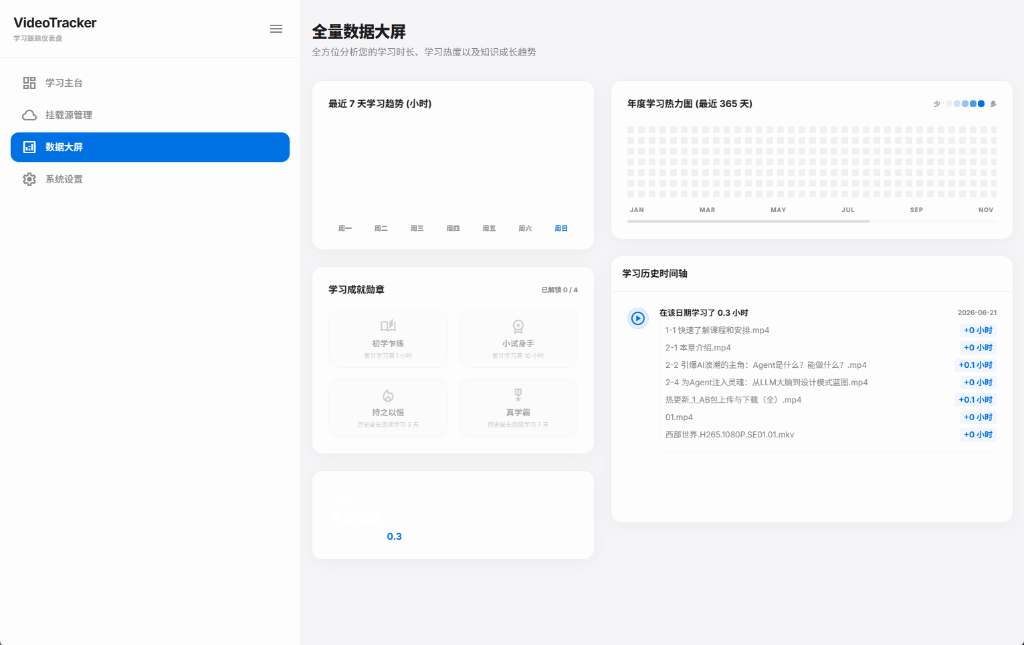
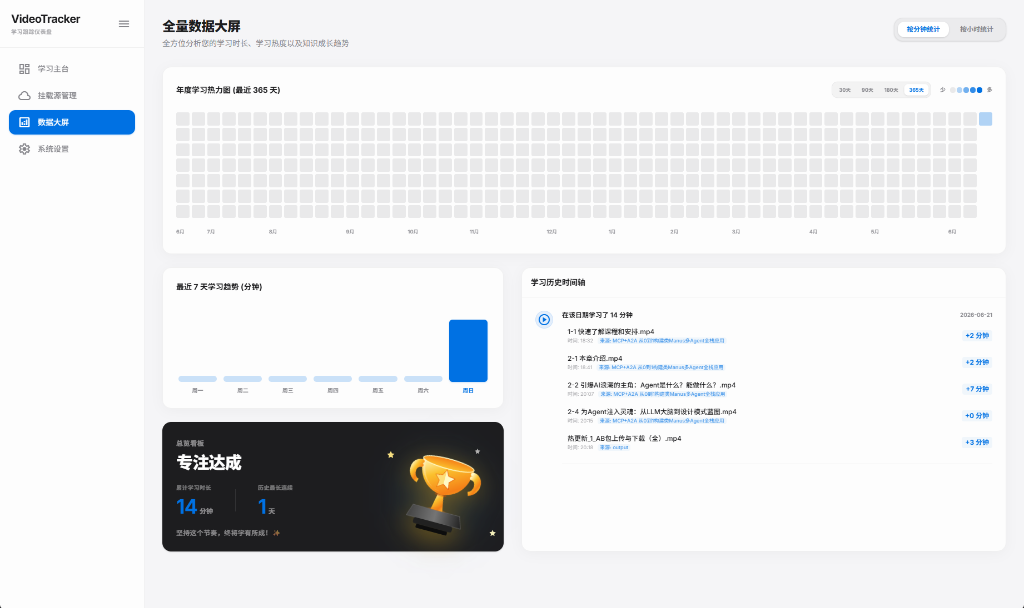
style: fix Analytics dashboard column alignment and update screenshot

diff --git a/src/renderer/components/Analytics.tsx b/src/renderer/components/Analytics.tsx
@@ -407,7 +407,7 @@ export default function Analytics({ refreshSignal, onRefresh }: AnalyticsProps) 
         </section>
 
         {/* 下方自适应双列排版 */}
-        <div className="grid grid-cols-1 lg:grid-cols-12 gap-8 items-start">
+        <div className="grid grid-cols-1 lg:grid-cols-12 gap-8 items-stretch">
           {/* 左侧列：柱状图 & 统计概览 */}
           <div className="col-span-12 lg:col-span-5 space-y-6">
             {/* 最近 7 天趋势图 */}
@@ -563,8 +563,8 @@ export default function Analytics({ refreshSignal, onRefresh }: AnalyticsProps) 
           </div>
 
           {/* 右侧列：历史时间轴 */}
-          <div className="col-span-12 lg:col-span-7">
-            <section className="apple-card flex flex-col rounded-2xl h-[470px] overflow-hidden bg-white/80 border border-black/5 shadow-sm transition-shadow hover:shadow-md">
+          <div className="col-span-12 lg:col-span-7 flex flex-col min-h-0">
+            <section className="apple-card flex flex-col rounded-2xl flex-1 overflow-hidden bg-white/80 border border-black/5 shadow-sm transition-shadow hover:shadow-md">
               <div className="p-4 border-b border-black/5">
                 <h3 className="font-bold text-sm text-on-surface">学习历史时间轴</h3>
               </div>
@@ -590,27 +590,38 @@ export default function Analytics({ refreshSignal, onRefresh }: AnalyticsProps) 
                       </div>
                       
                       <div className="space-y-1.5 mt-2">
-                        {log.playedVideos.map((video, vIdx) => (
-                          <div 
-                            key={vIdx} 
-                            onContextMenu={(e) => handleContextMenu(e, log.dateStr, video.path)}
-                            className="text-xs text-on-surface-variant flex items-center justify-between pl-2 border-l border-black/5 py-1 hover:bg-black/[0.02] rounded transition-colors cursor-default"
-                            title="右键可删除该记录"
-                          >
-                            <div className="flex flex-col min-w-0 pr-4">
-                              <span className="truncate font-medium">{video.name}</span>
-                              <div className="flex items-center gap-2 mt-0.5">
-                                <span className="text-[9px] text-on-surface-variant/70">时间: {video.time}</span>
-                                <span className="text-[9px] text-primary/70 bg-primary/5 px-1 py-0.2 rounded font-medium">
-                                  来源: {getSourceLabel(video)}
+                        {log.playedVideos.map((video, vIdx) => {
+                          const isSelected = contextMenu && contextMenu.dateStr === log.dateStr && contextMenu.videoPath === video.path;
+                          return (
+                            <div 
+                              key={vIdx} 
+                              onContextMenu={(e) => handleContextMenu(e, log.dateStr, video.path)}
+                              className={`text-xs flex items-center justify-between pl-2 border-l-2 py-1.5 transition-all duration-200 cursor-default rounded group ${
+                                isSelected 
+                                  ? 'bg-primary/10 border-primary text-primary font-semibold translate-x-1 shadow-xs' 
+                                  : 'text-on-surface-variant border-transparent hover:border-primary/60 hover:bg-primary/5 hover:text-on-surface hover:translate-x-1 hover:shadow-xs'
+                              }`}
+                              title="右键可删除该记录"
+                            >
+                              <div className="flex flex-col min-w-0 pr-4">
+                                <span className={`truncate font-medium transition-colors duration-200 ${
+                                  isSelected ? 'text-primary' : 'text-on-surface group-hover:text-primary'
+                                }`}>
+                                  {video.name}
                                 </span>
+                                <div className="flex items-center gap-2 mt-0.5">
+                                  <span className="text-[9px] opacity-70">时间: {video.time}</span>
+                                  <span className="text-[9px] text-primary/70 bg-primary/5 px-1 py-0.2 rounded font-medium">
+                                    来源: {getSourceLabel(video)}
+                                  </span>
+                                </div>
                               </div>
+                              <span className="font-bold text-primary whitespace-nowrap bg-primary/5 px-1.5 py-0.5 rounded">
+                                +{formatValue(video.duration)} {getUnitLabel()}
+                              </span>
                             </div>
-                            <span className="font-bold text-primary whitespace-nowrap bg-primary/5 px-1.5 py-0.5 rounded">
-                              +{formatValue(video.duration)} {getUnitLabel()}
-                            </span>
-                          </div>
-                        ))}
+                          );
+                        })}
                       </div>
                     </div>
                   </div>